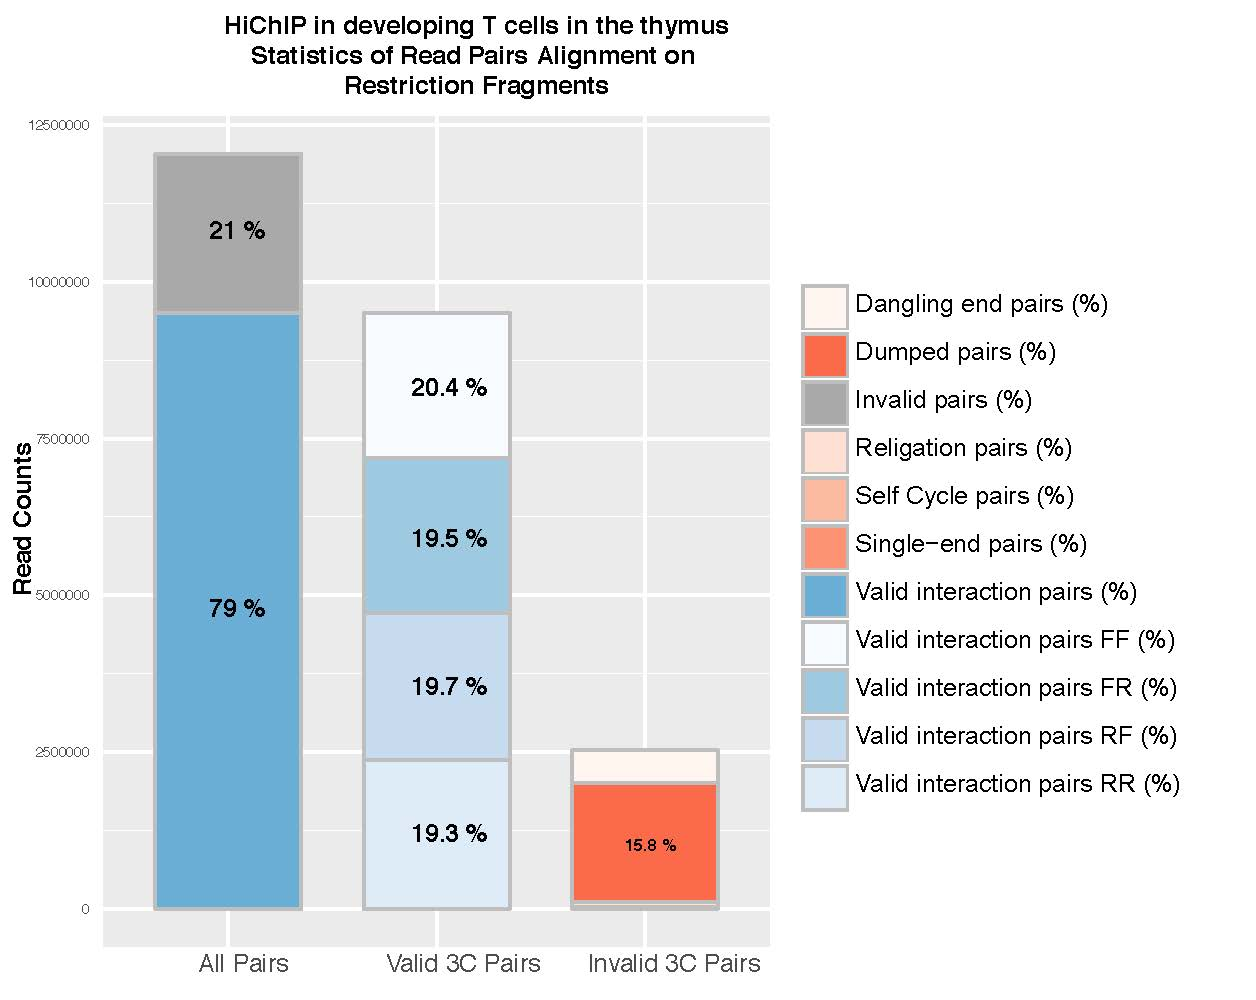
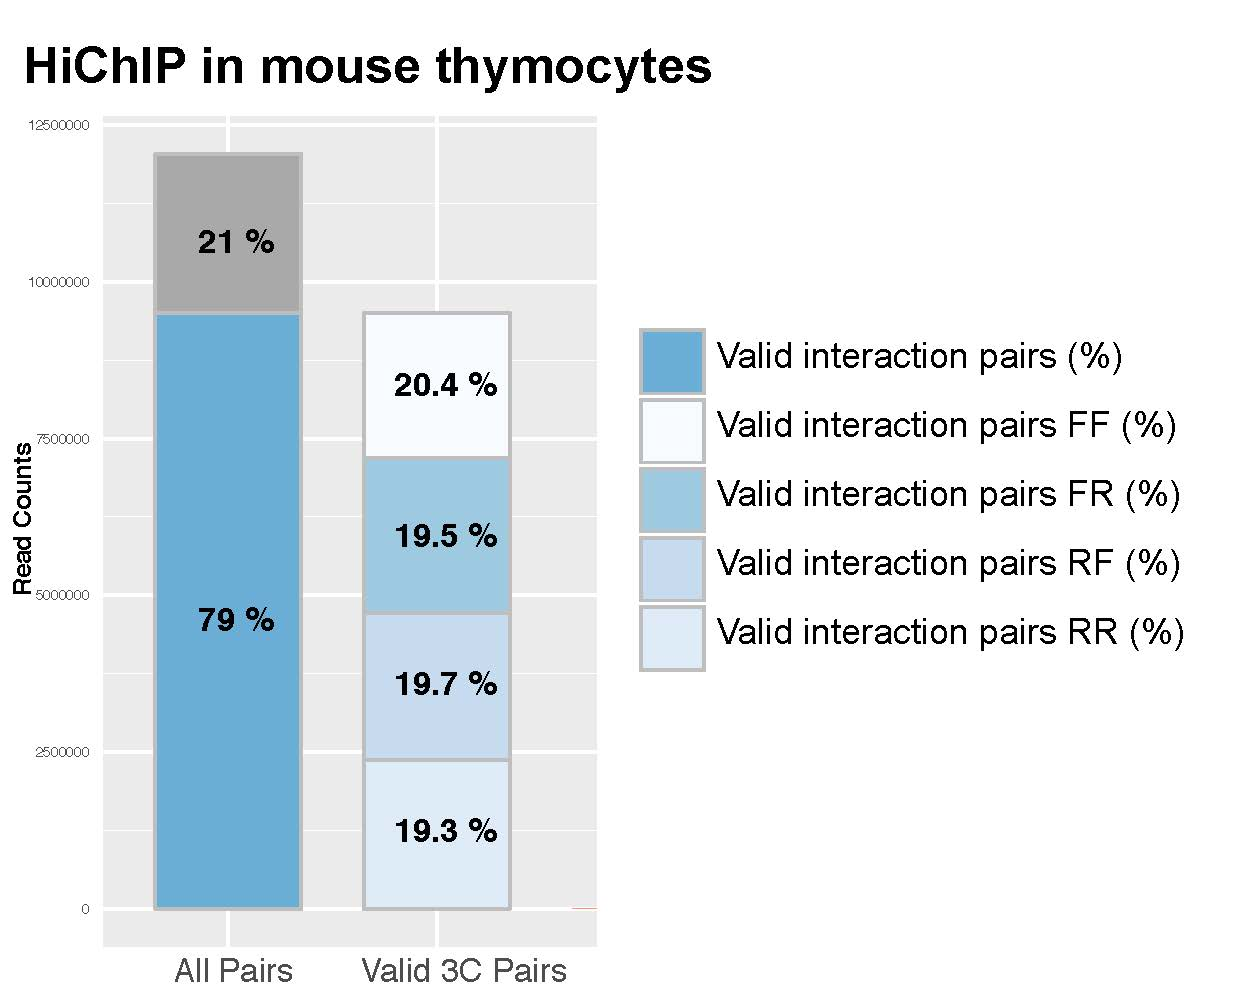
update

diff --git a/news.html b/news.html
@@ -24,7 +24,7 @@
 <h1>News:</h1>
 </div>
 <ul>
-<li><p>September 1st 2017 was an exciting day for Vahedi lab. Our first HiChIP for K27ac in T cells worked beautifully! Thanks Maria, Jelena, Naomi, and Yeqiao! </p>
+<li><p>September 1st 2017 was an exciting day for Vahedi lab. Our <a href="http://www.nature.com/nmeth/journal/v13/n11/full/nmeth.3999.html?foxtrotcallback=true">HiChIP</a> for K27ac in mouse T cells worked beautifully! Thanks Maria, Jelena, Naomi, and Yeqiao! </p>
 </li>
 </ul>
 <ul>
@@ -157,7 +157,7 @@ and <a href="http://www.sciencedaily.com/releases/2015/02/150216131144.htm">Scie
 </ul>
 <div id="footer">
 <div id="footer-text">
-Page generated 2017-09-04 14:27:23 EDT, by <a href="http://jemdoc.jaboc.net/">jemdoc</a>.
+Page generated 2017-09-05 08:53:37 EDT, by <a href="http://jemdoc.jaboc.net/">jemdoc</a>.
 </div>
 </div>
 </td>

diff --git a/index.html b/index.html
@@ -67,7 +67,7 @@ the <a href="http://www.nature.com/nmeth/journal/v13/n11/full/nmeth.3999.html?fo
 </div></div>
 <div id="footer">
 <div id="footer-text">
-Page generated 2017-09-04 14:22:11 EDT, by <a href="http://jemdoc.jaboc.net/">jemdoc</a>.
+Page generated 2017-09-05 08:53:41 EDT, by <a href="http://jemdoc.jaboc.net/">jemdoc</a>.
 </div>
 </div>
 </td>
